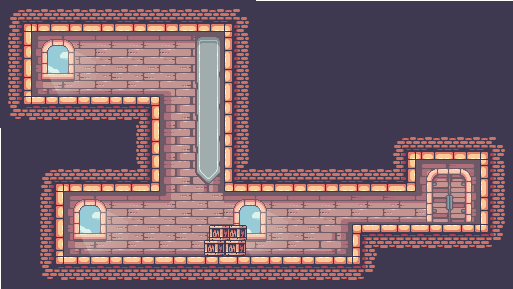
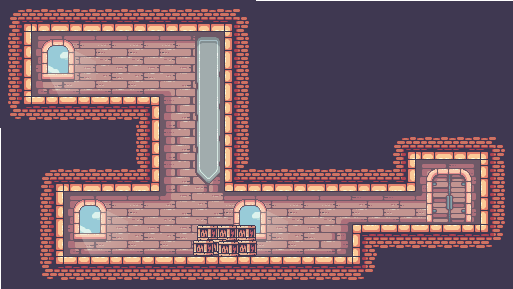
add level 7

Changed region(s): [[0.3743, 0.7785, 0.499, 0.9031]]

diff --git a/index.js b/index.js
@@ -123,13 +123,14 @@ const player = new Player({
                         if (level === Object.keys(levels).length + 1) level = 1
                         levels[level].init()
                         player.switchSprite('idleRight')
-                        player.preventInput = false
+                        
                         gsap.to(overlay, {
                             opacity: 0,
                         })
                         if (level != 1) {
                             setTimeout(() => {
                                 player.hello()
+                                player.preventInput = false
                             }, 500);
                         }
 
@@ -169,7 +170,7 @@ const helloDialogue = new DialogBox({
     }
 })
 
-let level = 1
+let level = 7
 let levels = {
     1: {
         init: () => {
@@ -435,6 +436,53 @@ let levels = {
                     y: 0
                 },
                 imageSrc: './img/Level6.png'
+            })
+            doors = [
+                new Sprite({
+                    position: {
+                        x: 850,
+                        y: 402
+                    },
+                    imageSrc: './Sprites/11-Door/Opening (46x56).png',
+                    frameRate: 5,
+                    frameBuffer: 5,
+                    loop: false,
+                    autoplay: false,
+                })
+            ],
+                life = new Sprite({
+                    position: {
+                        x: 0,
+                        y: 0
+                    },
+                    imageSrc: './img/Live Bar.png'
+                })
+        }
+    },
+    7: {
+        init: () => {
+            parsedCollisions = collisionsLevel7.parse2D()
+            collisionBlocks = parsedCollisions.createObjectsFrom2D()
+            player.collisionBlocks = collisionBlocks
+            enemy.collisionBlocks = collisionBlocks
+            kingPig.collisionBlocks = collisionBlocks
+            kingPig.velocity.x = 0
+            enemy.velocity.x = 0
+            kingPig.position.x = 350
+            kingPig.position.y = 200
+            player.position.x = 50
+            player.position.y = 100
+            enemy.position.x = 700
+            enemy.position.y = 500
+
+            if (player.currentAnimation) player.currentAnimation.isActive = false
+
+            background = new Sprite({
+                position: {
+                    x: 0,
+                    y: 0
+                },
+                imageSrc: './img/Level7.png'
             })
             doors = [
                 new Sprite({

diff --git a/js/data/collisions.js b/js/data/collisions.js
@@ -57,3 +57,13 @@ const collisionsLevel6 = [0, 0, 0, 0, 0, 0, 0, 0, 0, 0, 0, 0, 0, 0, 0, 0,
     292, 0, 0, 0, 0, 0, 0, 0, 0, 292, 292, 292, 292, 0, 0, 292,
     292, 0, 0, 0, 292, 0, 0, 292, 0, 0, 0, 0, 0, 0, 0, 292,
     292, 292, 292, 292, 292, 292, 292, 292, 292, 292, 292, 292, 292, 292, 292, 292]
+
+const collisionsLevel7 = [292, 292, 292, 292, 292, 292, 292, 292, 292, 292, 292, 292, 292, 292, 292, 292,
+    292, 0, 0, 0, 0, 0, 0, 0, 0, 0, 0, 0, 0, 0, 0, 292,
+    292, 292, 0, 0, 0, 0, 0, 0, 0, 0, 0, 0, 0, 0, 0, 292,
+    292, 0, 0, 0, 0, 0, 0, 0, 0, 0, 0, 0, 0, 0, 0, 292,
+    292, 0, 0, 0, 0, 0, 0, 0, 0, 0, 0, 0, 0, 0, 0, 292,
+    292, 0, 0, 0, 0, 0, 0, 0, 0, 0, 0, 0, 0, 292, 292, 292,
+    292, 292, 292, 292, 0, 0, 0, 292, 0, 0, 0, 292, 0, 0, 0, 292,
+    292, 0, 0, 0, 0, 0, 292, 292, 292, 292, 292, 292, 292, 0, 0, 292,
+    292, 292, 292, 292, 292, 292, 292, 292, 292, 292, 292, 292, 292, 292, 292, 292]
